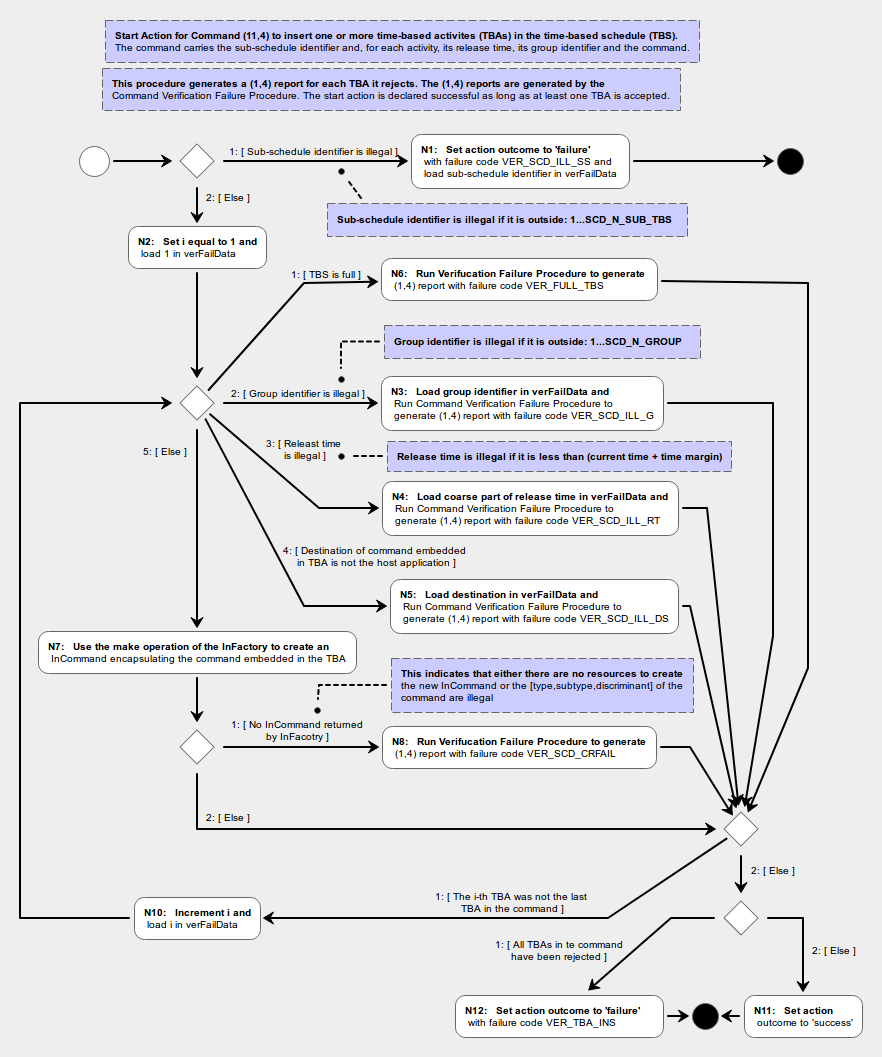
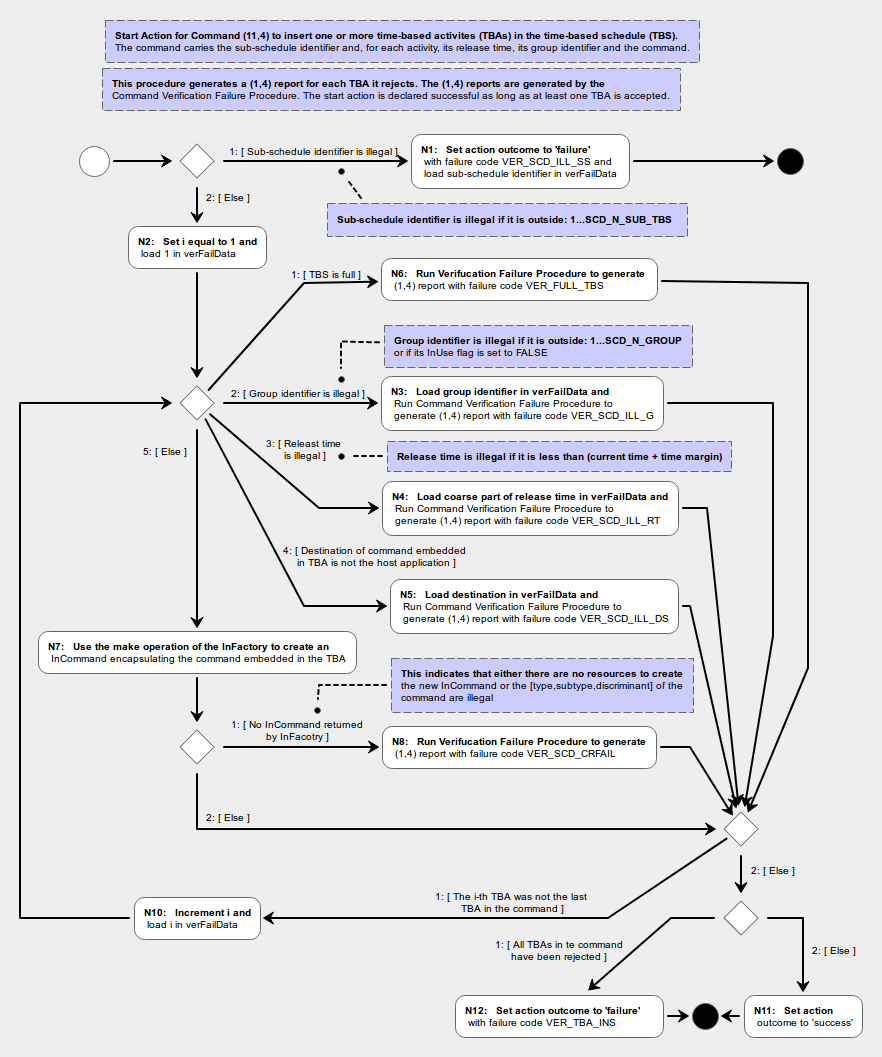
On-going specification of service 11

Changed region(s): [[0.4286, 0.3122, 0.7959, 0.3746]]

diff --git a/doc/pus/PusExtension.tex b/doc/pus/PusExtension.tex
@@ -913,7 +913,7 @@ The parameters HK\_MAX\_* are application constants. Applications which do not n
 
 The sampling buffer mentioned in the last row in table \ref{tab:repDefDataStruct} is discussed in the next section.
 
-Several service 3 commands operate on a set of RDL entries (e.g. command (3,3) requestes that a list of SIDs be deleted from the RDL). In such cases, it is useful to "mark" an entry in the RDL. For this purpose, flag \texttt{isMarked} has been introduced in table \ref{tab:repDefDataStruct}.
+Several service 3 commands operate on a set of RDL entries (e.g. command (3,3) requests that a list of SIDs be deleted from the RDL). In such cases, it is useful to "mark" an entry in the RDL. For this purpose, flag \texttt{isMarked} has been introduced in table \ref{tab:repDefDataStruct}.
 
 
 \begin{pnptable}{|l|p{5cm}|>{\raggedright\arraybackslash}p{6cm}|}{Fields in Report Definition Data Structure}{tab:repDefDataStruct}{\textbf{Field Name} & \textbf{Description} & \textbf{Constraint}}
@@ -1196,31 +1196,31 @@ Note that the processing logic outlined above is the same as is applied by the I
 \item The extraction of the TBA from the TBS and the loading of its embedded command in an InManager is done by the Time-Based Schedule Execution Procedure of figure \ref{fig:TbsExec}
 \end{fw_itemize}
 
-
+Command (11,5) is the antagonist of command (11,4): it can be used to delete one or more TBAs from the TBS. A TBA to be deleted are identified by the "request identifier", namely a triplet holding the source identifier, the APID and the source sequence count of the command embedded in the TBA, 
 
 The time-based schedule execution function can be enabled and disabled through commands (11,1) and (11,2). Initially, by default, the function is disabled. When the function is disabled, none of the TBAs in the TBS are processed. 
 
-
-
-
 \subsection{Sub-Schedules}
-Within the TBS, up to SCD\_N\_SUB\_TBS \textit{sub-schedules} may be defined. Each sub-schedule is identified by an integer in the range 1 to SCD\_N\_SUB\_TBS. The sub-schedule 1 is the default sub-schedule. Thus, an application which does not need sub-schedules should set SCD\_N\_SUB\_TBS to 1. To each TBA, the attribute \texttt{subSchedId} is associated which identifies the sub-schedule to which the TBA belongs.
+Within the TBS, up to SCD\_N\_SUB\_TBS \textit{sub-schedules} may be defined. Each sub-schedule is identified by an integer in the range 1 to SCD\_N\_SUB\_TBS and, to each TBA, the attribute \texttt{subSchedId} is associated which identifies the sub-schedule to which the TBA belongs (i.e. all TBAs belong to one and exactly one sub-schedule). 
 
 A sub-schedule has two attributes: flag \texttt{isSubSchedEnabled} which determines whether the sub-schedule is enabled and integer \texttt{nOfTbaInSubSched} which holds the number of TBAs in the sub-schedule. In [PS-SP], sub-schedules are created and deleted dynamically. Sub-schedule S is created when a command (11,4) asks for one or more TBAs to be inserted in the sub-schedule S. The sub-schedule is deleted when the last of its TBAs is deleted from the TBS (because its release time has been reached). In the PUS Extension, the data structures for the sub-schedules are all statically defined and therefore the creation status of a sub-schedule is determined by the value of \texttt{nOfTbaInSubSched}: the sub-schedule is deemed to be created when the attribute is greater than zero (the sub-schedule is not empty).
 
+The sub-schedule 1 is the default sub-schedule. An application which does not need sub-schedules should set SCD\_N\_SUB\_TBS to 1. Since sub-schedules are disabled by default, an application which does not support sub-schedules should also enable the default sub-schedule as part of its initialization.
 
 \subsection{Groups}
-The TBAs in the TBS may be assigned to groups. Up to SCD\_N\_GROUP groups may be defined. Each group is identified by an integer in the range 1 to SCD\_N\_GROUP. The group 1 is the default group. Thus, an application which does not need groups should set SCD\_N\_GROUPS to 1. To each TBA, the attribute \texttt{groupId} is associated which identifies the group to which the TBA belongs.
+The TBAs in the TBS may be assigned to groups. Up to SCD\_N\_GROUP groups may be defined. Each group is identified by an integer in the range 1 to SCD\_N\_GROUP and, to each TBA, the attribute \texttt{groupId} is associated which identifies the group to which the TBA belongs (i.e. all TBAs belong to one and exactly one group). 
 
-In the current version of the PUS Extension of the CORDET Framework, only the default sub-schedule is supported and SCD\_N\_GROUP must be kept equal to 1.
+A group has three attributes: flag \texttt{isGroupEnabled} which determines whether the group is enabled, flag \texttt{isGroupInUse} which determines whether the group is in use, and integer \texttt{nOfTbaInGroup} which holds the number of TBAs in the group. In [PS-SP], groups are created and deleted dynamically. Group G is created through command (11,22) and deleted through command (11,23). In the PUS Extension, the data structures for the sub-schedules are all statically defined and therefore the creation status of a sub-schedule is determined by the value of the \texttt{isGroupInUse} flag which is set/unset in response to the (11,22) and (11,23) commands.
 
-
+The group 1 is the default group. An application which does not need groups should set SCD\_N\_GROUPS to 1. Since the PUS Extension of the CORDET Framework does not yet support the commands to control groups, users should set SCD\_N\_GROUPS and should set its InUse flag to true as part of their application's initialization.
 
 
 \begin{pnptable}{|l|p{6.5cm}|>{\raggedright\arraybackslash}p{3.3cm}|}{Attributes of Time-Based Activity}{tab:tbaAtt}{\textbf{Name} & \textbf{Description} & \textbf{Constraint}}
 \texttt{relTime} & The release time of the time-based activity or zero if this slot in the TBS is empty & A valid on-board time value \\
 \hline
-\texttt{nextTba} & The identifier within the TBS of the time-based activity with the next release time or zero if this is the last (fartherst in the future) entry in the TBS & Integer in range 1..SCD\_N\_TBA \\
+\texttt{nextTba} & The identifier within the TBS of the time-based activity with the next release time or zero if this is the last (fartherst in the future) entry in the TBS & Integer in range 0..SCD\_N\_TBA \\
+\hline
+\texttt{prevTba} & The identifier within the TBS of the time-based activity with the previous release time or zero if this is the first (earliest) entry in the TBS & Integer in range 0..SCD\_N\_TBA \\
 \hline
 \texttt{subSchedId} & The identifier of the sub-schedule to which the TBA belongs & Integer in range 1..SCD\_N\_SUB\_TBS \\
 \hline
@@ -1243,6 +1243,10 @@ Tables \ref{tab:TBD} to \ref{tab:TBD} formally specify the service 11 commands a
 \printScdResTbsSpec{|c|p{10cm}|}
 \printScdInsTbaSpec{|c|p{10cm}|}
 
+\newpage
+\printScdDelTbaSpec{|c|p{10cm}|}
+
+
 
 %-------------------------------------------------------------------------------------
 \subsection{Service 11 Constants}\label{sec:serv11Const}
@@ -1261,6 +1265,10 @@ The attributes of the Time-Based Activities (TBAs) in the Time-Based Schedule (T
 
 
 \pnpfigure[scale=0.5]{Start Action of (11,4) Command Procedure}{fig:Cmd11s4Start}{CrPsCmd11s4Start.png}
+
+
+\pnpfigure[scale=0.5]{Start Action of (11,5) Command Procedure}{fig:Cmd11s5Start}{CrPsCmd11s4Start.png}
+
 
 \pnpfigure[scale=0.5]{Time-Based Schedule Execution Procedure}{fig:TbsExec}{CrPsTbsExec.png}
 
